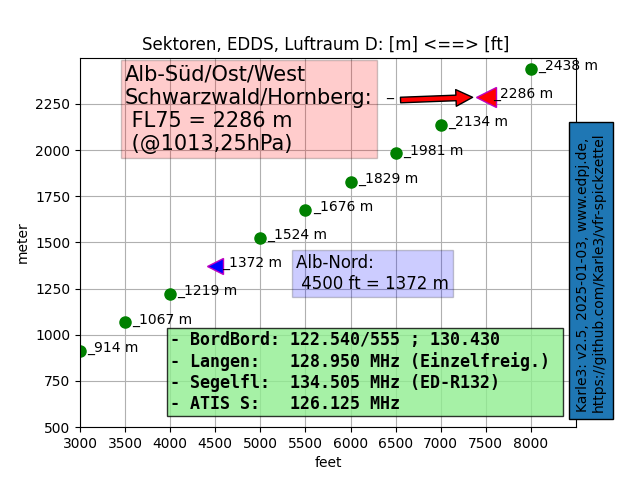
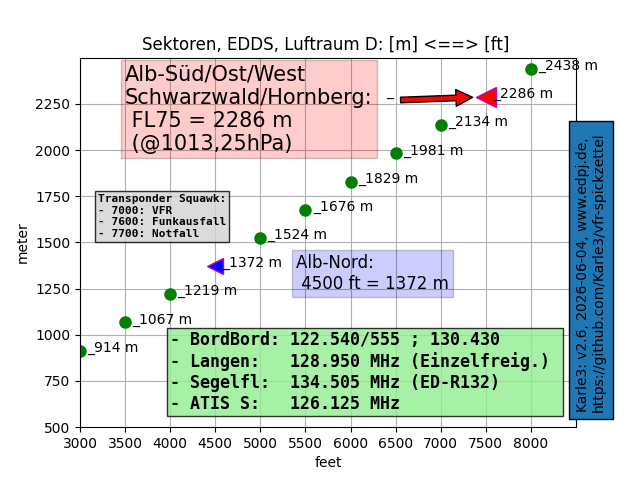
prepare v2_6: Transponder Squawks added.

diff --git a/vfr_spickzettel_plot.py b/vfr_spickzettel_plot.py
@@ -10,8 +10,12 @@
 import numpy as np
 import matplotlib.pyplot as plt
 
-VERSION = "2.5"
-DATE    = "2025-01-03"
+VERSION = "2.6"
+DATE    = "2026-06-04"
+
+
+# VERSION = "2.5"
+# DATE    = "2025-01-03"
 
 # https://matplotlib.org/
 
@@ -94,6 +98,7 @@ plt.text(3500, 2000, 'Alb-Süd/Ost/West\nSchwarzwald/Hornberg:\n FL75 = 2286 m \
 		fontsize=15,
         bbox={'facecolor': 'red', 'alpha': 0.2, 'pad': 3})
 
+# Freq:
 # ; 130.740(R9)
 plt.text(4000, 600, '\
 - BordBord: 122.540/555 ; 130.430 \n\
@@ -103,6 +108,17 @@ plt.text(4000, 600, '\
 		fontsize=12, fontweight='bold',  family='monospace', # 'sans-serif'
         bbox={'facecolor': 'lightgreen', 'alpha': 0.8, 'pad': 2})
 
+# Transponder
+# https://www.fliegermagazin.de/wissen/transponder-einschalten/
+# https://www.fliegermagazin.de/wissen/welche-aircraft-squawk-codes-gibt-es/
+# https://einklich.net/flugfunk/funk.pdf
+plt.text(3200, 1530, '\
+Transponder Squawk:\n\
+- 7000: VFR\n\
+- 7600: Funkausfall\n\
+- 7700: Notfall',
+		fontsize=8, fontweight='bold',  family='monospace', # 'sans-serif'
+        bbox={'facecolor': 'lightgrey', 'alpha': 0.8, 'pad': 2})
 
 VER_STR = f"Karle3: v{VERSION:s}, {DATE:s}, www.edpj.de, \
  \nhttps://github.com/Karle3/vfr-spickzettel"

diff --git a/README.md b/README.md
@@ -23,7 +23,7 @@ Running `vfr_spickzettel_plot.py` will create diagrams as 'vfr-spickzettel' in P
 
 ## VENV
 
-On running in a [virtual enviroment](https://docs.python.org/3/library/venv.html), see these steps:
+On running in a [virtual environment](https://docs.python.org/3/library/venv.html), see these steps:
 
 * `py -m venv .venv`
 * `.venv\Scripts\activate`
@@ -35,7 +35,7 @@ On running in a [virtual enviroment](https://docs.python.org/3/library/venv.html
 
 Then `pip freeze > requirements.txt` will create an appropriate dependency-file.
 
-In your (virtual) enviroment, just get all of them by `pip install -r requirements.txt` !
+In your (virtual) environment, just get all of them by `pip install -r requirements.txt` !
 
 ### WebLinks
 